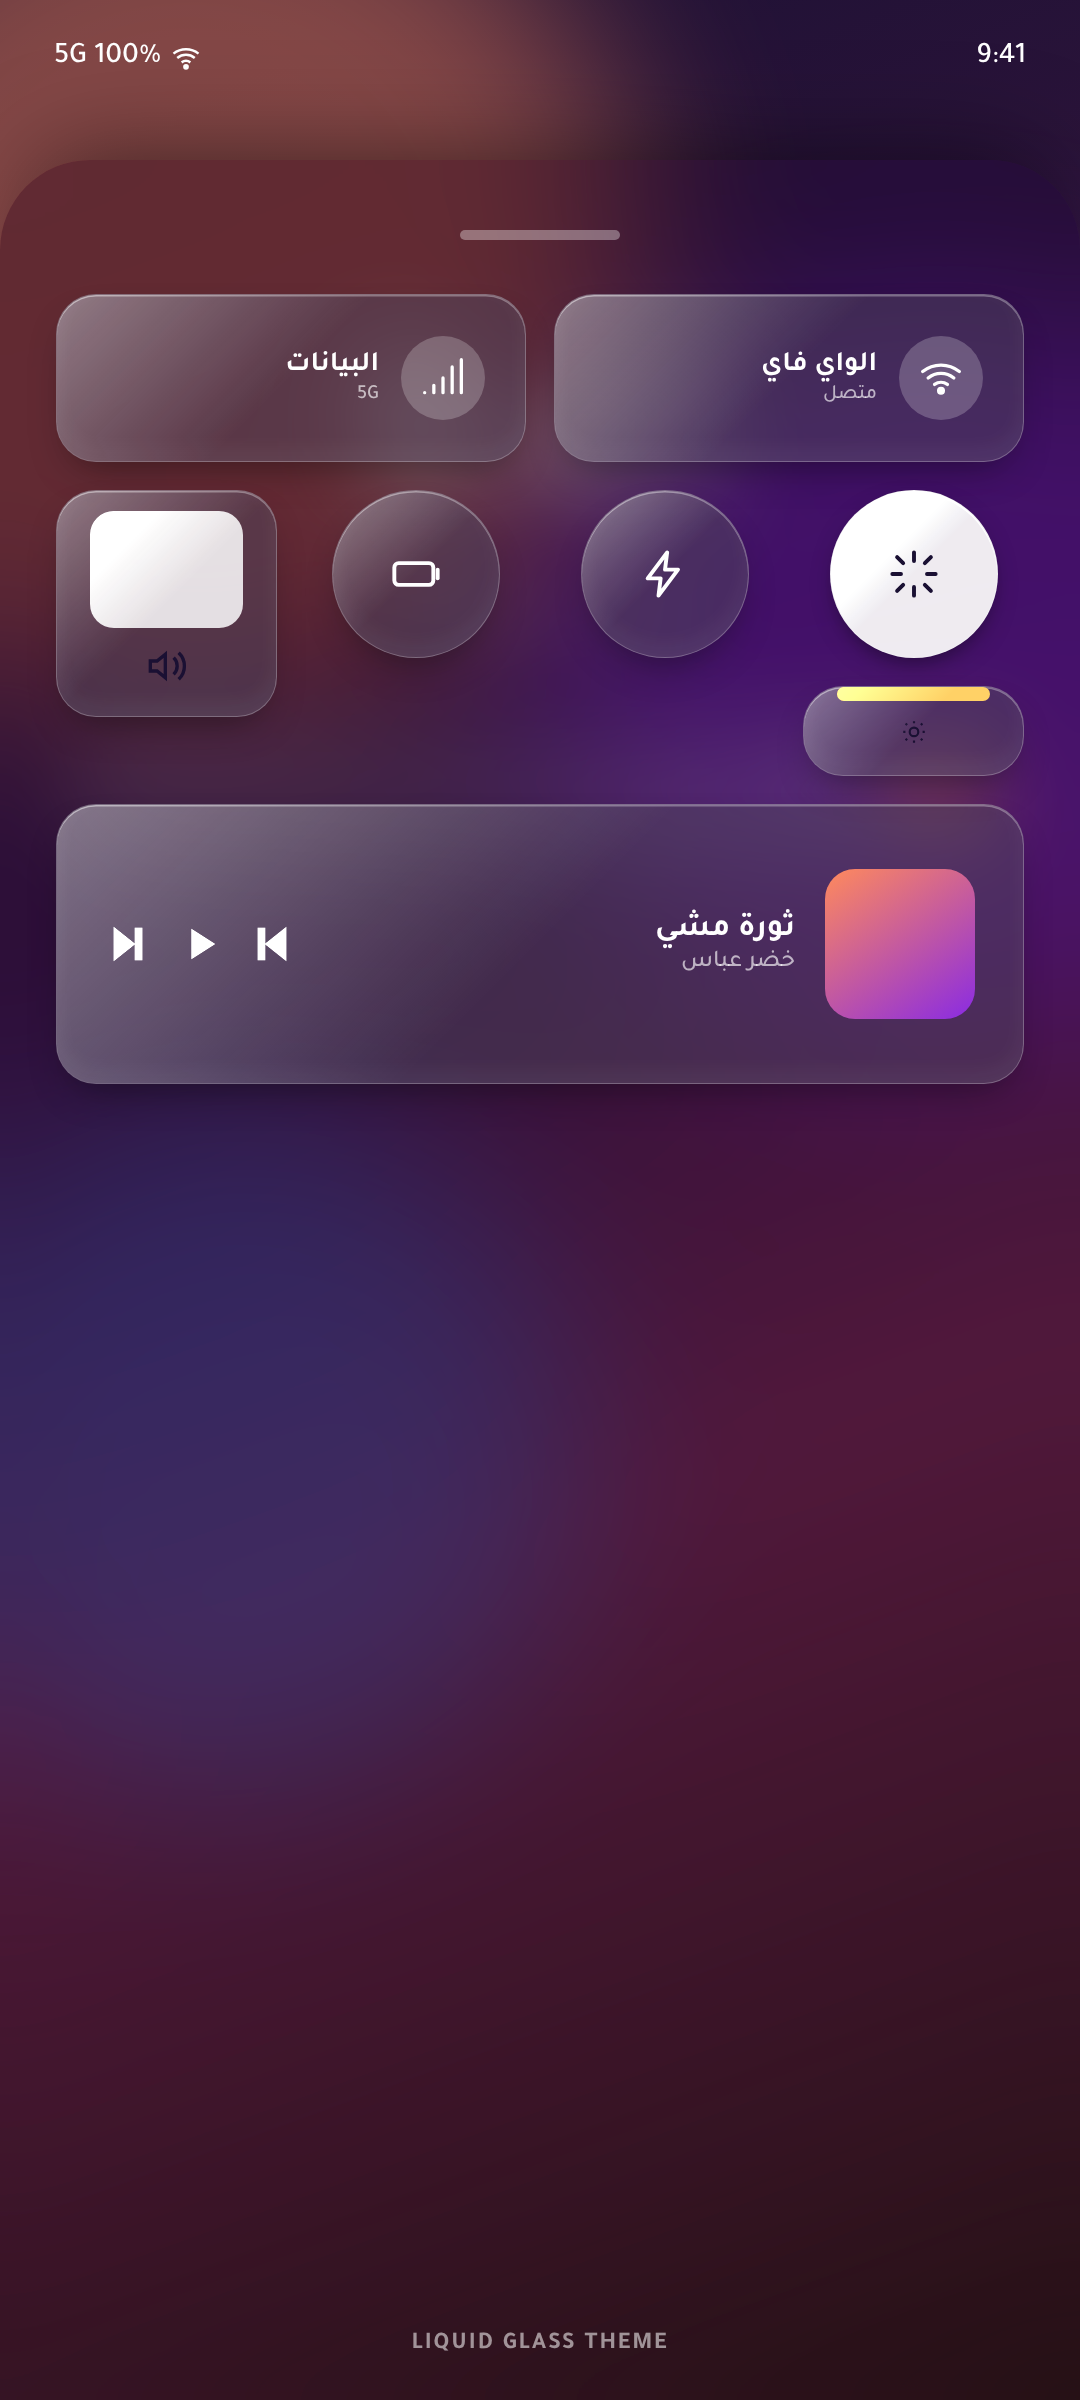
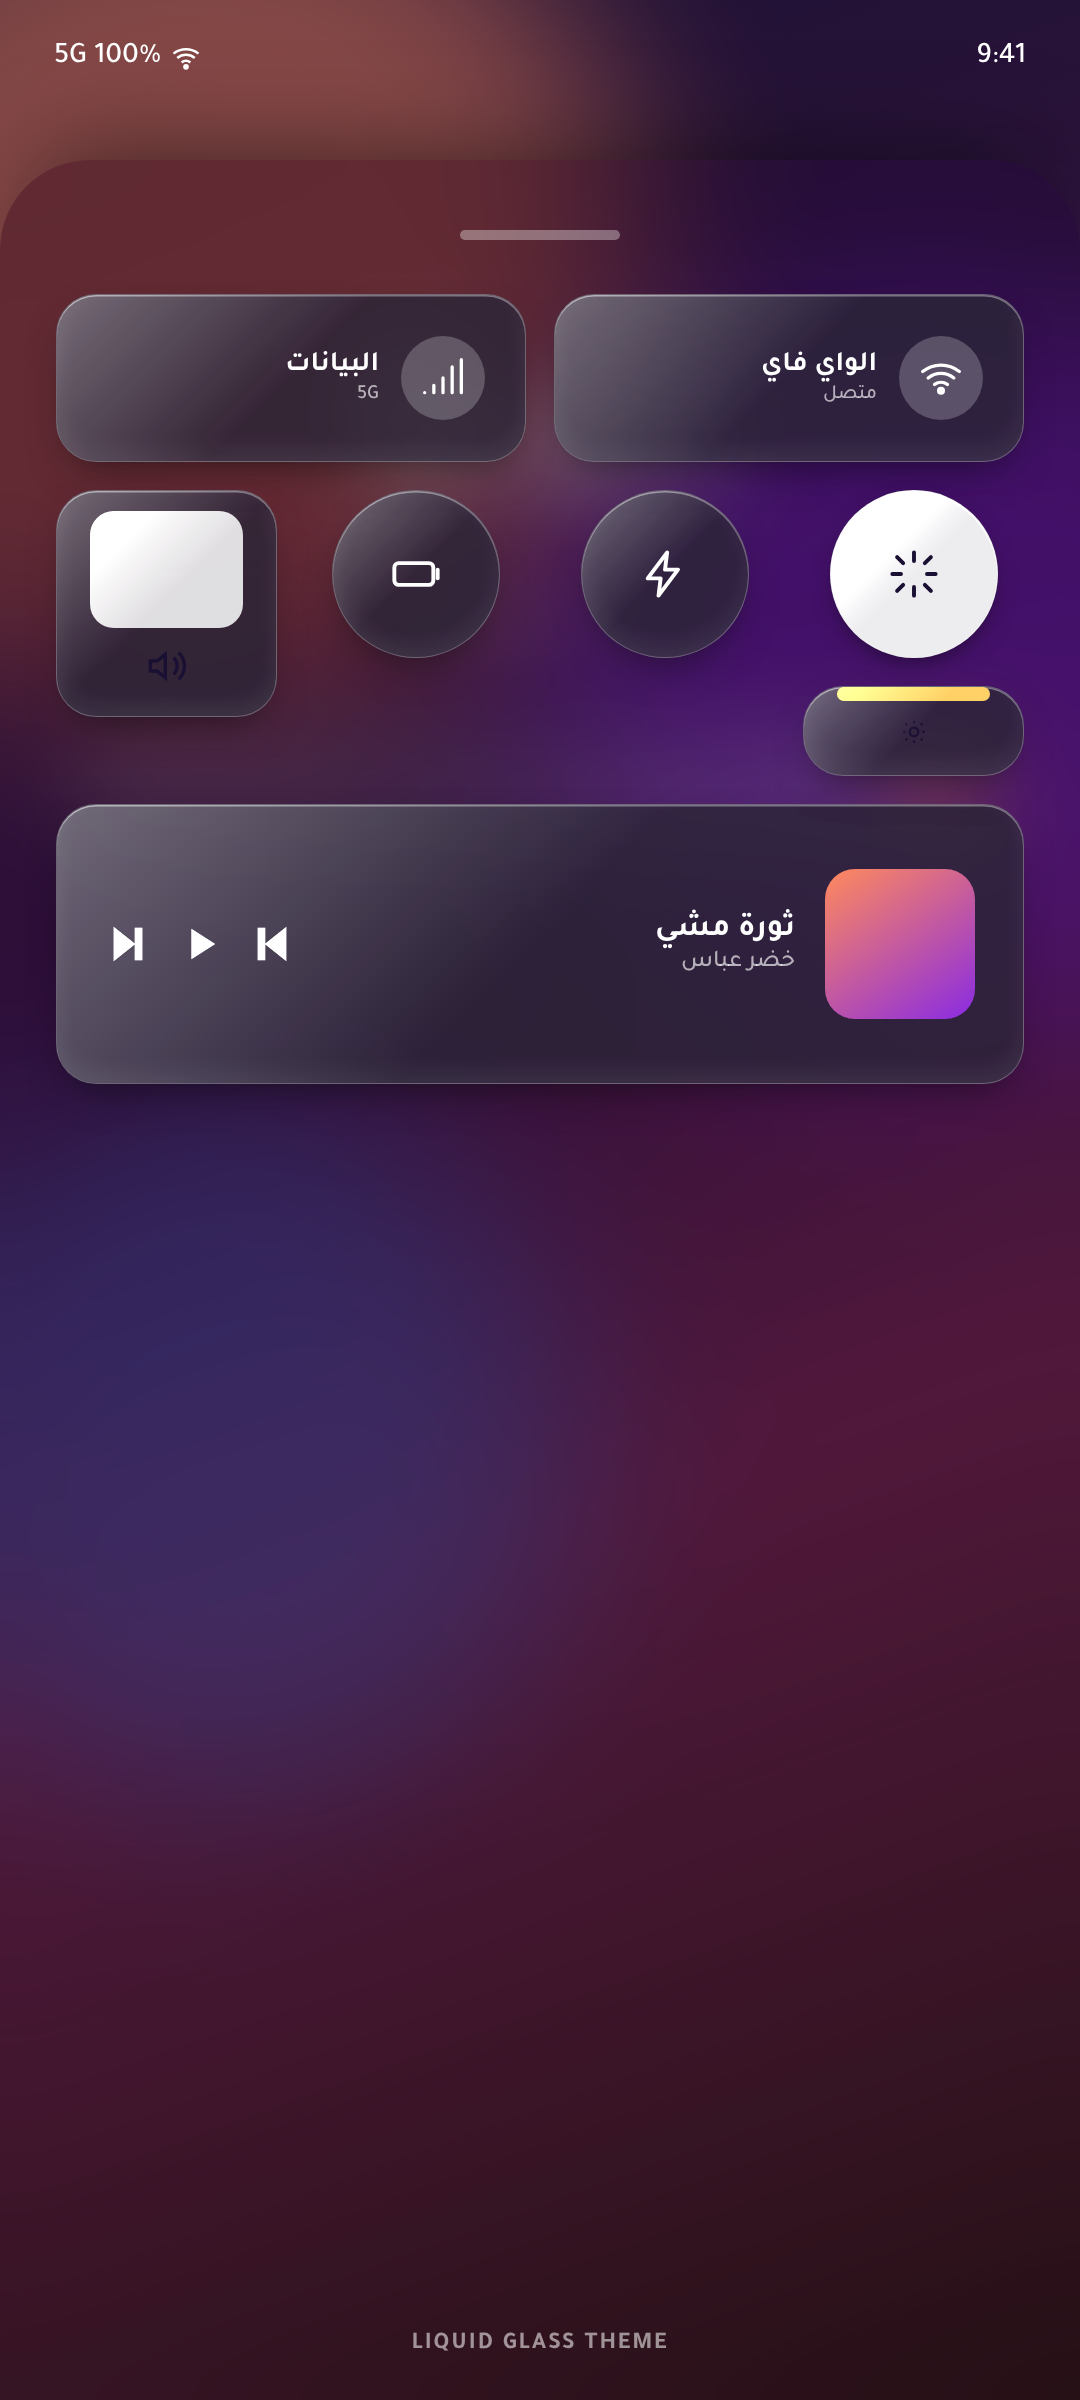
Control Center mockup: real SVG backdrop-filter chain (frost blur + saturation + turbulence refraction + per-channel chromatic aberration + luminosity tint) instead of flat CSS blur [skip ci]
Claude-Session: https://claude.ai/code/session_019uqjmh2zsJCzjD8BR3oFuT

Changed region(s): [[0.0306, 0.125, 0.9472, 0.3125], [0.4583, 0.2812, 0.9472, 0.4688]]

diff --git a/dablik/design/theme/scene2.html b/dablik/design/theme/scene2.html
@@ -1,0 +1,103 @@
+<!doctype html><html lang="ar" dir="rtl"><head><meta charset="utf-8">
+<style>
+@font-face{font-family:T;font-weight:500;src:url(tajawal_medium.ttf)}
+@font-face{font-family:T;font-weight:700;src:url(tajawal_bold.ttf)}
+@font-face{font-family:T;font-weight:800;src:url(tajawal_extrabold.ttf)}
+*{box-sizing:border-box;margin:0;padding:0}
+html,body{width:1080px;height:2400px;overflow:hidden;background:#000;font-family:T}
+#s{position:relative;width:1080px;height:2400px;overflow:hidden;background:linear-gradient(160deg,#1a1033,#3a1740 38%,#6b2a4a 62%,#d9775733 100%)}
+.aur{position:absolute;border-radius:50%;filter:blur(90px)}
+.sb{position:absolute;top:0;left:0;right:0;height:90px;display:flex;justify-content:space-between;align-items:flex-end;padding:0 54px 14px;color:#fff;font-size:30px}
+.sb .ic{display:flex;gap:10px;align-items:center}
+.clock{position:absolute;top:360px;left:0;right:0;text-align:center;color:#fff}
+.clock .t{font-size:220px;font-weight:300;line-height:1}
+.clock .d{font-size:40px;font-weight:700;margin-top:14px;opacity:.92}
+.notif{position:absolute;top:720px;left:70px;right:70px;background:rgba(255,255,255,.14);backdrop-filter:blur(30px);border:1.5px solid rgba(255,255,255,.28);border-radius:40px;padding:34px;display:flex;align-items:center;gap:26px}
+.notif .ic{width:72px;height:72px;border-radius:22px;background:linear-gradient(145deg,#E58A6A,#C6613F);display:grid;place-items:center}
+.notif .ic svg{width:40px;height:40px;stroke:#fff;fill:none;stroke-width:1.8;stroke-linecap:round;stroke-linejoin:round}
+.notif b{color:#fff;font-size:30px;display:block}
+.notif span{color:rgba(255,255,255,.7);font-size:24px}
+
+/* control center sheet */
+#cc{position:absolute;left:0;right:0;bottom:0;top:160px;transition:none;transition:none;background:rgba(20,10,30,.42);backdrop-filter:blur(46px) saturate(1.4);border-radius:90px 90px 0 0;padding:70px 56px 0;box-shadow:0 -40px 100px -40px #0008}
+.handle{width:160px;height:10px;background:rgba(255,255,255,.35);border-radius:10px;margin:0 auto 54px}
+.grid{display:grid;grid-template-columns:repeat(4,1fr);gap:28px}
+.glass{background:rgba(255,255,255,.07);backdrop-filter:url(#liquidGlass);-webkit-backdrop-filter:url(#liquidGlass);border:1px solid rgba(255,255,255,.30);border-radius:40px;box-shadow:inset 0 1.5px 0 rgba(255,255,255,.36),inset 0 -10px 24px rgba(255,255,255,.07),0 18px 40px -16px #0008;position:relative;overflow:hidden}
+.glass:before{content:"";position:absolute;inset:0;background:linear-gradient(135deg,rgba(255,255,255,.30),rgba(255,255,255,0) 50%);mix-blend-mode:plus-lighter}
+.c1{grid-column:span 2;grid-row:span 1;height:168px;display:flex;align-items:center;padding:0 40px;gap:22px}
+.c1 .ic{width:84px;height:84px;border-radius:50%;background:rgba(255,255,255,.22);display:grid;place-items:center;flex:none}
+.c1 .ic svg{width:44px;height:44px;stroke:#fff;fill:none;stroke-width:1.8;stroke-linecap:round;stroke-linejoin:round}
+.c1 b{color:#fff;font-size:28px}
+.c1 span{color:rgba(255,255,255,.65);font-size:20px;display:block}
+.sq{height:168px;width:168px;border-radius:50%!important;display:grid;place-items:center;position:relative;justify-self:center}
+.sq svg{width:52px;height:52px;stroke:#fff;fill:none;stroke-width:1.8;stroke-linecap:round;stroke-linejoin:round;z-index:1}
+.sq.on{background:rgba(255,255,255,.92);box-shadow:inset 0 2px 0 #fff, 0 10px 24px -8px #0008}
+.sq.on svg{stroke:#1a1033}
+.media{grid-column:span 4;height:280px;display:flex;align-items:center;padding:0 48px;gap:30px}
+.media .cover{width:150px;height:150px;border-radius:30px;background:linear-gradient(145deg,#ff8a5c,#8a2be2)}
+.media b{color:#fff;font-size:32px;display:block}
+.media span{color:rgba(255,255,255,.65);font-size:24px}
+.media .ctrl{margin-right:auto;display:flex;gap:26px}
+.media .ctrl svg{width:46px;height:46px;stroke:#fff;fill:#fff}
+.slider{grid-row:span 2;width:100%;display:flex;flex-direction:column;align-items:center;justify-content:flex-end;padding-bottom:30px}
+.slider .fill{width:70%;background:rgba(255,255,255,.85);border-radius:24px}
+.slider svg{width:40px;height:40px;stroke:#1a1033;fill:none;stroke-width:2;margin-top:18px}
+.label{position:absolute;bottom:40px;left:0;right:0;text-align:center;color:rgba(255,255,255,.55);font-size:24px;font-weight:700;letter-spacing:2px}
+</style></head><body><div id="s">
+<svg width="0" height="0" style="position:absolute">
+<defs>
+<filter id="liquidGlass" x="-20%" y="-20%" width="140%" height="140%" color-interpolation-filters="sRGB">
+  <!-- طبقة الصقيع: تمويه خفيف للخلفية خلف الزجاج -->
+  <feGaussianBlur in="SourceGraphic" stdDeviation="9" result="frost"/>
+  <feColorMatrix in="frost" type="saturate" values="1.4" result="frostSat"/>
+
+  <!-- انكسار خفيف قرب الحواف: تشويه مرجعي بنمط عضوي يحاكي انحناء العدسة -->
+  <feTurbulence type="fractalNoise" baseFrequency="0.012 0.02" numOctaves="2" seed="7" result="noise"/>
+  <feDisplacementMap in="frostSat" in2="noise" scale="14" xChannelSelector="R" yChannelSelector="G" result="refracted"/>
+
+  <!-- تشتيت لوني (Chromatic Aberration): فصل كل قناة لون وإزاحتها قليلاً عند الحافة -->
+  <feColorMatrix in="refracted" type="matrix"
+    values="1 0 0 0 0  0 0 0 0 0  0 0 0 0 0  0 0 0 1 0" result="rCh"/>
+  <feOffset in="rCh" dx="2.1" dy="0" result="rChOff"/>
+  <feColorMatrix in="refracted" type="matrix"
+    values="0 0 0 0 0  0 1 0 0 0  0 0 0 0 0  0 0 0 1 0" result="gCh"/>
+  <feColorMatrix in="refracted" type="matrix"
+    values="0 0 0 0 0  0 0 0 0 0  0 0 1 0 0  0 0 0 1 0" result="bCh"/>
+  <feOffset in="bCh" dx="-2.1" dy="0" result="bChOff"/>
+  <feBlend in="rChOff" in2="gCh" mode="screen" result="rg"/>
+  <feBlend in="rg" in2="bChOff" mode="screen" result="glassColor"/>
+
+  <!-- تلوين شفاف يحافظ على سطوع الخلفية (luminosity-preserving tint) -->
+  <feComponentTransfer in="glassColor" result="tinted">
+    <feFuncR type="linear" slope="0.92" intercept="0.05"/>
+    <feFuncG type="linear" slope="0.92" intercept="0.05"/>
+    <feFuncB type="linear" slope="0.95" intercept="0.07"/>
+  </feComponentTransfer>
+</filter>
+</defs>
+</svg>
+
+<div class="aur" style="width:900px;height:900px;background:#ff8a5c;opacity:.45;left:-260px;top:-180px"></div>
+<div class="aur" style="width:760px;height:760px;background:#8a2be2;opacity:.4;right:-220px;top:300px"></div>
+<div class="aur" style="width:700px;height:700px;background:#3e91ff;opacity:.28;left:-120px;bottom:600px"></div>
+
+<div class="sb"><div>9:41</div><div class="ic"><svg width="30" height="30" viewBox="0 0 24 24" fill="none" stroke="#fff" stroke-width="2"><path d="M2 8.5a16 16 0 0 1 20 0M5 12a11 11 0 0 1 14 0M8.5 15.5a6 6 0 0 1 7 0"/><circle cx="12" cy="19" r="1.3" fill="#fff"/></svg> 5G 100%</div></div>
+
+<div class="clock" id="lockview"><div class="t">9:41</div><div class="d">الأحد، ٢٢ نوفمبر</div></div>
+<div class="notif" id="lockview2"><div class="ic"><svg viewBox="0 0 24 24"><path d="M3 7l9-4 9 4v10l-9 4-9-4z"/><path d="M3 7l9 4 9-4M12 11v10"/></svg></div><div><b>دبليك</b><span>تطبيقك جاهز للتحميل الآن</span></div></div>
+
+<div id="cc">
+  <div class="handle"></div>
+  <div class="grid">
+    <div class="glass c1"><div class="ic"><svg viewBox="0 0 24 24"><path d="M2 8.5a16 16 0 0 1 20 0M5 12a11 11 0 0 1 14 0M8.5 15.5a6 6 0 0 1 7 0"/><circle cx="12" cy="19" r="1.3" fill="#fff"/></svg></div><div><b>الواي فاي</b><span>متصل</span></div></div>
+    <div class="glass c1"><div class="ic"><svg viewBox="0 0 24 24"><path d="M2 20h.01M7 20v-4M12 20v-8M17 20V6M22 20V2"/></svg></div><div><b>البيانات</b><span>5G</span></div></div>
+    <div class="glass sq on"><svg viewBox="0 0 24 24"><path d="M12 2v4M12 18v4M4.2 4.2l2.8 2.8M17 17l2.8 2.8M2 12h4M18 12h4M4.2 19.8L7 17M17 7l2.8-2.8"/></svg></div>
+    <div class="glass sq"><svg viewBox="0 0 24 24"><path d="M13 2 4 14h6l-1 8 9-12h-6z"/></svg></div>
+    <div class="glass sq"><svg viewBox="0 0 24 24"><rect x="2" y="7" width="18" height="10" rx="2"/><path d="M22 10v4" stroke-linecap="round"/></svg></div>
+    <div class="glass slider"><div class="fill" style="height:60%"></div><svg viewBox="0 0 24 24"><path d="M11 5 6 9H2v6h4l5 4zM16 7a7 7 0 0 1 0 10M19 4a11 11 0 0 1 0 16"/></svg></div>
+    <div class="glass slider"><div class="fill" style="height:38%;background:#ffd166"></div><svg viewBox="0 0 24 24"><circle cx="12" cy="12" r="4"/><path d="M12 2v2M12 20v2M4.2 4.2l1.4 1.4M18.4 18.4l1.4 1.4M2 12h2M20 12h2M4.2 19.8l1.4-1.4M18.4 5.6l1.4-1.4"/></svg></div>
+    <div class="glass media"><div class="cover"></div><div><b>ثورة مشي</b><span>خضر عباس</span></div><div class="ctrl"><svg viewBox="0 0 24 24"><path d="M19 20 9 12l10-8z"/><rect x="5" y="4" width="3" height="16"/></svg><svg viewBox="0 0 24 24"><path d="M8 5v14l11-7z"/></svg><svg viewBox="0 0 24 24"><path d="M5 4 15 12 5 20z"/><rect x="16" y="4" width="3" height="16"/></svg></div></div>
+  </div>
+  <div class="label">LIQUID GLASS THEME</div>
+</div>
+</div></body></html>

diff --git a/dablik/design/theme/shot.js b/dablik/design/theme/shot.js
@@ -2,7 +2,7 @@ const { chromium } = require('playwright');
 (async()=>{
   const b=await chromium.launch();
   const pg=await b.newPage({viewport:{width:1080,height:2400},deviceScaleFactor:1});
-  await pg.goto('file://'+process.cwd()+'/scene.html');
+  await pg.goto('file://'+process.cwd()+'/scene2.html');
   await pg.waitForTimeout(300);
   // lockscreen (cc hidden off-screen below)
   await pg.evaluate(()=>{document.getElementById('cc').style.transform='translateY(100%)'});
